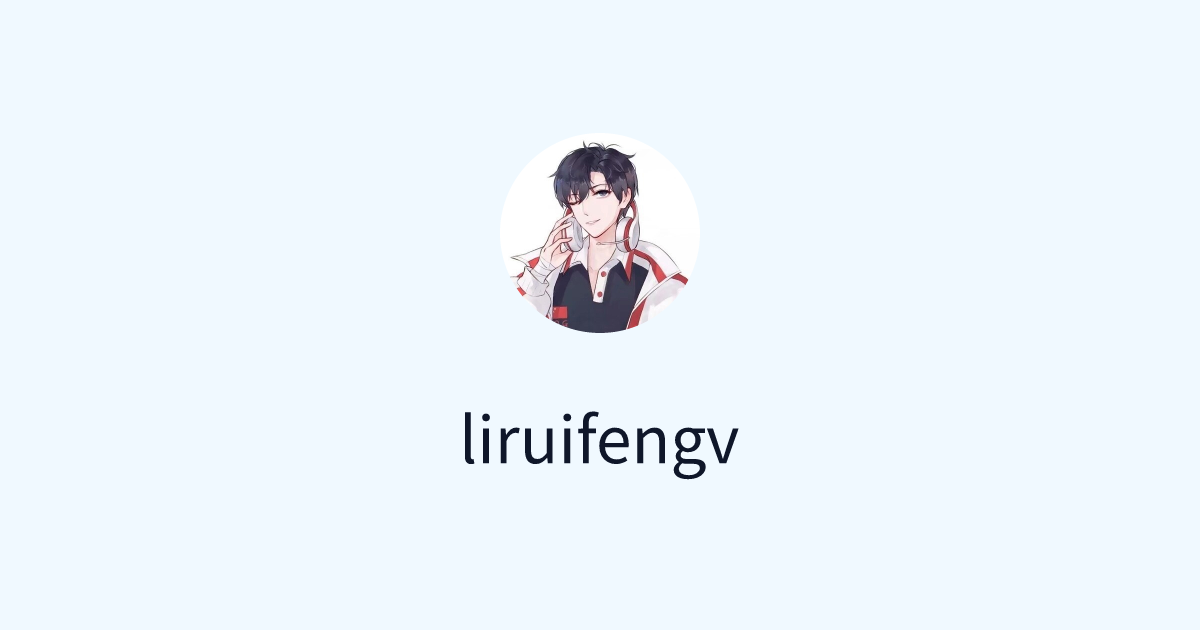
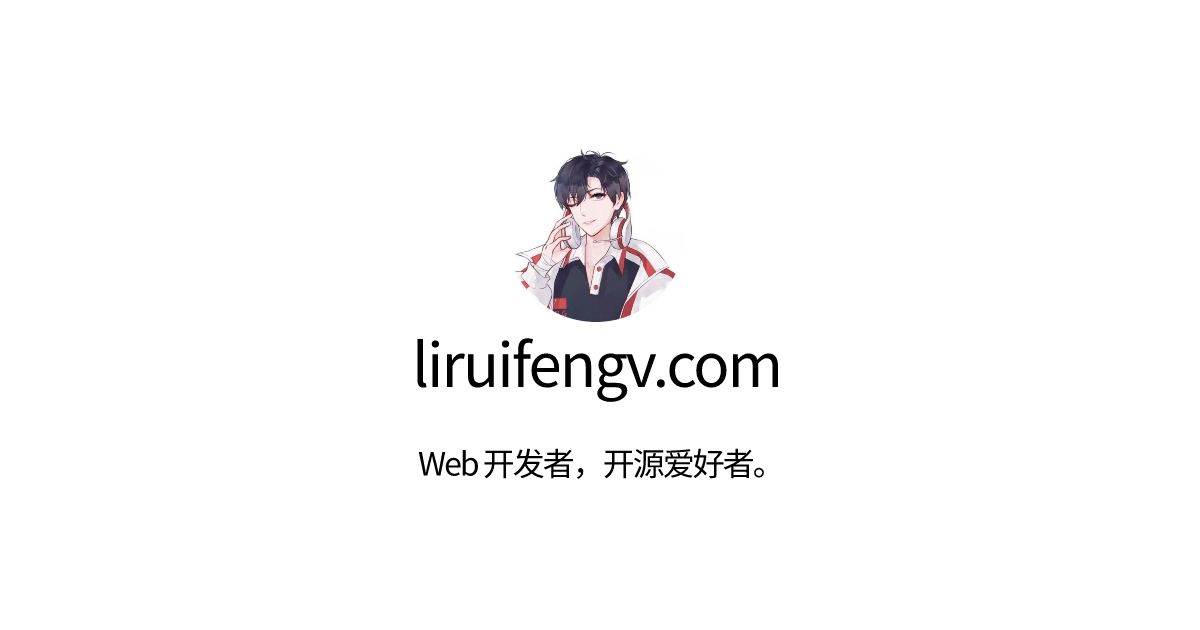
feat: 添加多个友链及相关图标，重构 LinkItem 组件，移除旧的 links 页面

Changed region(s): [[0.3392, 0.2111, 0.6475, 0.7841]]

diff --git a/src/links.ts b/src/links.ts
@@ -44,5 +44,107 @@ export const links: Link[] = [
     href: 'https://www.ricoui.com',
     logo: 'ricoui.com.png',
     description: '一名有趣的写代码的设计师'
+  },
+  {
+    name: 'Innei 拾一',
+    href: 'https://innei.in',
+    logo: 'innei.in.webp',
+    description: '全栈开发工程师'
+  },
+  {
+    name: '宇航',
+    href: 'https://www.yuhang.dev',
+    logo: 'yuhang.dev.png',
+    description: 'Web 开发者｜现居良渚｜家有四猫｜运动爱好者'
+  },
+  {
+    name: '皮普的数字花园',
+    href: 'https://pipuwong.com',
+    logo: 'https://img.pipu.studio/kCchCV.jpg',
+    description: '设计/摄影/代码/NAS'
+  },
+  {
+    name: 'Simon He',
+    href: 'https://simonhe.me',
+    logo: 'simonhe.me.jpeg',
+    description: 'core member of unocss and vue vine, webview-use author'
+  },
+  {
+    name: 'Justin3go',
+    href: 'https://justin3go.com',
+    logo: 'justin3go.com.jpg',
+    description: 'Indie Hacker & Founder of template0.com'
+  },
+  {
+    name: 'Weijun',
+    href: 'https://weijunext.com/',
+    logo: 'weijunext.com.jpg',
+    description: 'Indie Hacker & Founder of nextjscn.org'
+  },
+  {
+    name: '连波',
+    href: 'https://godruoyi.com',
+    logo: 'godruoyi.com.webp',
+    description: 'Laravel 爱好者，Blogger'
+  },
+  {
+    name: '但为君故',
+    href: 'https://dreams.plus',
+    logo: 'https://dreams.plus/static/avatar.webp',
+    description: 'Z世代青年'
+  },
+  {
+    name: '陈随易',
+    href: 'https://chensuiyi.me',
+    logo: 'chensuiyi.me.png',
+    description: '前端之虎，农村程序员，独立开发者'
+  },
+  {
+    name: 'situ2001',
+    href: 'https://situ2001.com',
+    logo: 'https://situ2001.com/avatar.png',
+    description: '软件开发者，Blogger'
+  },
+  {
+    name: 'AprilNEA',
+    href: 'https://blog.sku.moe',
+    logo: 'blog.sku.moe.jpg',
+    description: 'Full stack engineer / Student'
+  },
+  {
+    name: 'SkyWT',
+    href: 'https://skywt.cn',
+    logo: 'skywt.cn.webp',
+    description: '软件工程师，黑客与画家。'
+  },
+  {
+    name: '姚利锋 | Immerse',
+    href: 'https://yaolifeng.com',
+    logo: 'yaolifeng.com.jpg',
+    description: '独立开发者、内容创作者。'
+  },
+  {
+    name: 'Corey Chiu',
+    href: 'https://coreychiu.com',
+    logo: 'coreychiu.com.jpg',
+    description: '独立开发者、内容创作者。'
+  },
+  {
+    name: 'Leetao',
+    href: 'https://www.leetao.me',
+    logo: 'leetao.me.jpg',
+    description: '后端工程师，写有趣的代码，做有趣的事'
+  },
+  {
+    name: '希仁之拥',
+    href: 'https://blog.keepchen.com',
+    logo: 'blog.keepchen.com.jpg',
+    description: 'Indie Maker & Full-Stack Dev'
+  },
+  {
+    name: 'Jimmy',
+    href: 'https://about.jimmy-blog.top',
+    logo: 'jimmy-blog.top.png',
+    description: '全栈开发工程师'
   }
 ]

diff --git a/src/utils/og-templates/site.tsx b/src/utils/og-templates/site.tsx
@@ -2,68 +2,47 @@ import { SITE } from "@config";
 
 export default () => {
   return (
-    <div
-      style={{
-        background: `linear-gradient(to top left, rgb(178, 153, 253), rgb(111, 203, 253))`,
-        width: "100%",
-        height: "100%",
-        display: "flex",
-        alignItems: "center",
-        justifyContent: "center",
-      }}
-    >
+<div
+  style={{
+    display: 'flex',
+    height: '100%',
+    width: '100%',
+    alignItems: 'center',
+    justifyContent: 'center',
+    flexDirection: 'column',
+    backgroundColor: '#fff',
+    fontSize: 60,
+    letterSpacing: -2,
+    fontWeight: 700,
+    textAlign: 'center',
+  }}
+  >
+    <img
+        style={{
+          width: "180px",
+          height: "180px",
+          borderRadius: "50%",
+          marginRight: "8px",
+        }}
+        src="https://bucket.liruifengv.com/avatar.jpg"
+      ></img>
       <div
         style={{
-          boxShadow: "0 0 20px rgba(0, 0, 0, 0.1)",
-          background: "#fefbfb",
-          borderRadius: "15px",
-          display: "flex",
-          justifyContent: "center",
-          margin: "12px",
-          height: "88%",
+          color: '#000',
         }}
       >
-        <div
-          style={{
-            display: "flex",
-            flexDirection: "column",
-            justifyContent: "space-between",
-            margin: "20px",
-            width: "90%",
-            height: "90%",
-          }}
-        >
-          <div
-            style={{
-              display: "flex",
-              flexDirection: "column",
-              justifyContent: "center",
-              alignItems: "center",
-              height: "90%",
-              maxHeight: "90%",
-              overflow: "hidden",
-              textAlign: "center",
-            }}
-          >
-            <p style={{ fontSize: 72, fontWeight: "bold" }}>{SITE.title}</p>
-            <p style={{ fontSize: 28 }}>{SITE.desc}</p>
-          </div>
-
-          <div
-            style={{
-              display: "flex",
-              justifyContent: "flex-end",
-              width: "100%",
-              marginBottom: "8px",
-              fontSize: 28,
-            }}
-          >
-            <span style={{ overflow: "hidden", fontWeight: "bold" }}>
-              {new URL(SITE.website).hostname}
-            </span>
-          </div>
-        </div>
+        liruifengv.com
       </div>
-    </div>
+      <div
+        style={{
+          color: '#000',
+          marginTop:"32px",
+          fontSize: "32px"
+        }}
+      >
+        Web 开发者，开源爱好者。
+      </div>
+</div>
+
   );
 };

diff --git a/src/pages/og.png.ts b/src/pages/og.png.ts
@@ -1,7 +1,7 @@
-// import type { APIRoute } from "astro";
-// import { generateOgImageForSite } from "@utils/generateOgImages";
+import type { APIRoute } from "astro";
+import { generateOgImageForSite } from "@utils/generateOgImages";
 
-// export const GET: APIRoute = async () =>
-//   new Response(await generateOgImageForSite(), {
-//     headers: { "Content-Type": "image/png" },
-//   });
+export const GET: APIRoute = async () =>
+  new Response(await generateOgImageForSite(), {
+    headers: { "Content-Type": "image/png" },
+  });

diff --git a/src/utils/generateOgImages.tsx b/src/utils/generateOgImages.tsx
@@ -12,7 +12,7 @@ const website = isDev ? "http://localhost:4321/" : SITE.website;
 const fetchFonts = async () => {
   // Regular Font
   const fontFileRegular = await fetch(
-    `${website}fonts/ZCOOL_KuaiLe/ZCOOLKuaiLe-Regular.ttf`
+    `${website}fonts/NotoSansSC/static/NotoSansSC-Regular.ttf`
   );
   const fontRegular: ArrayBuffer = await fontFileRegular.arrayBuffer();
 
